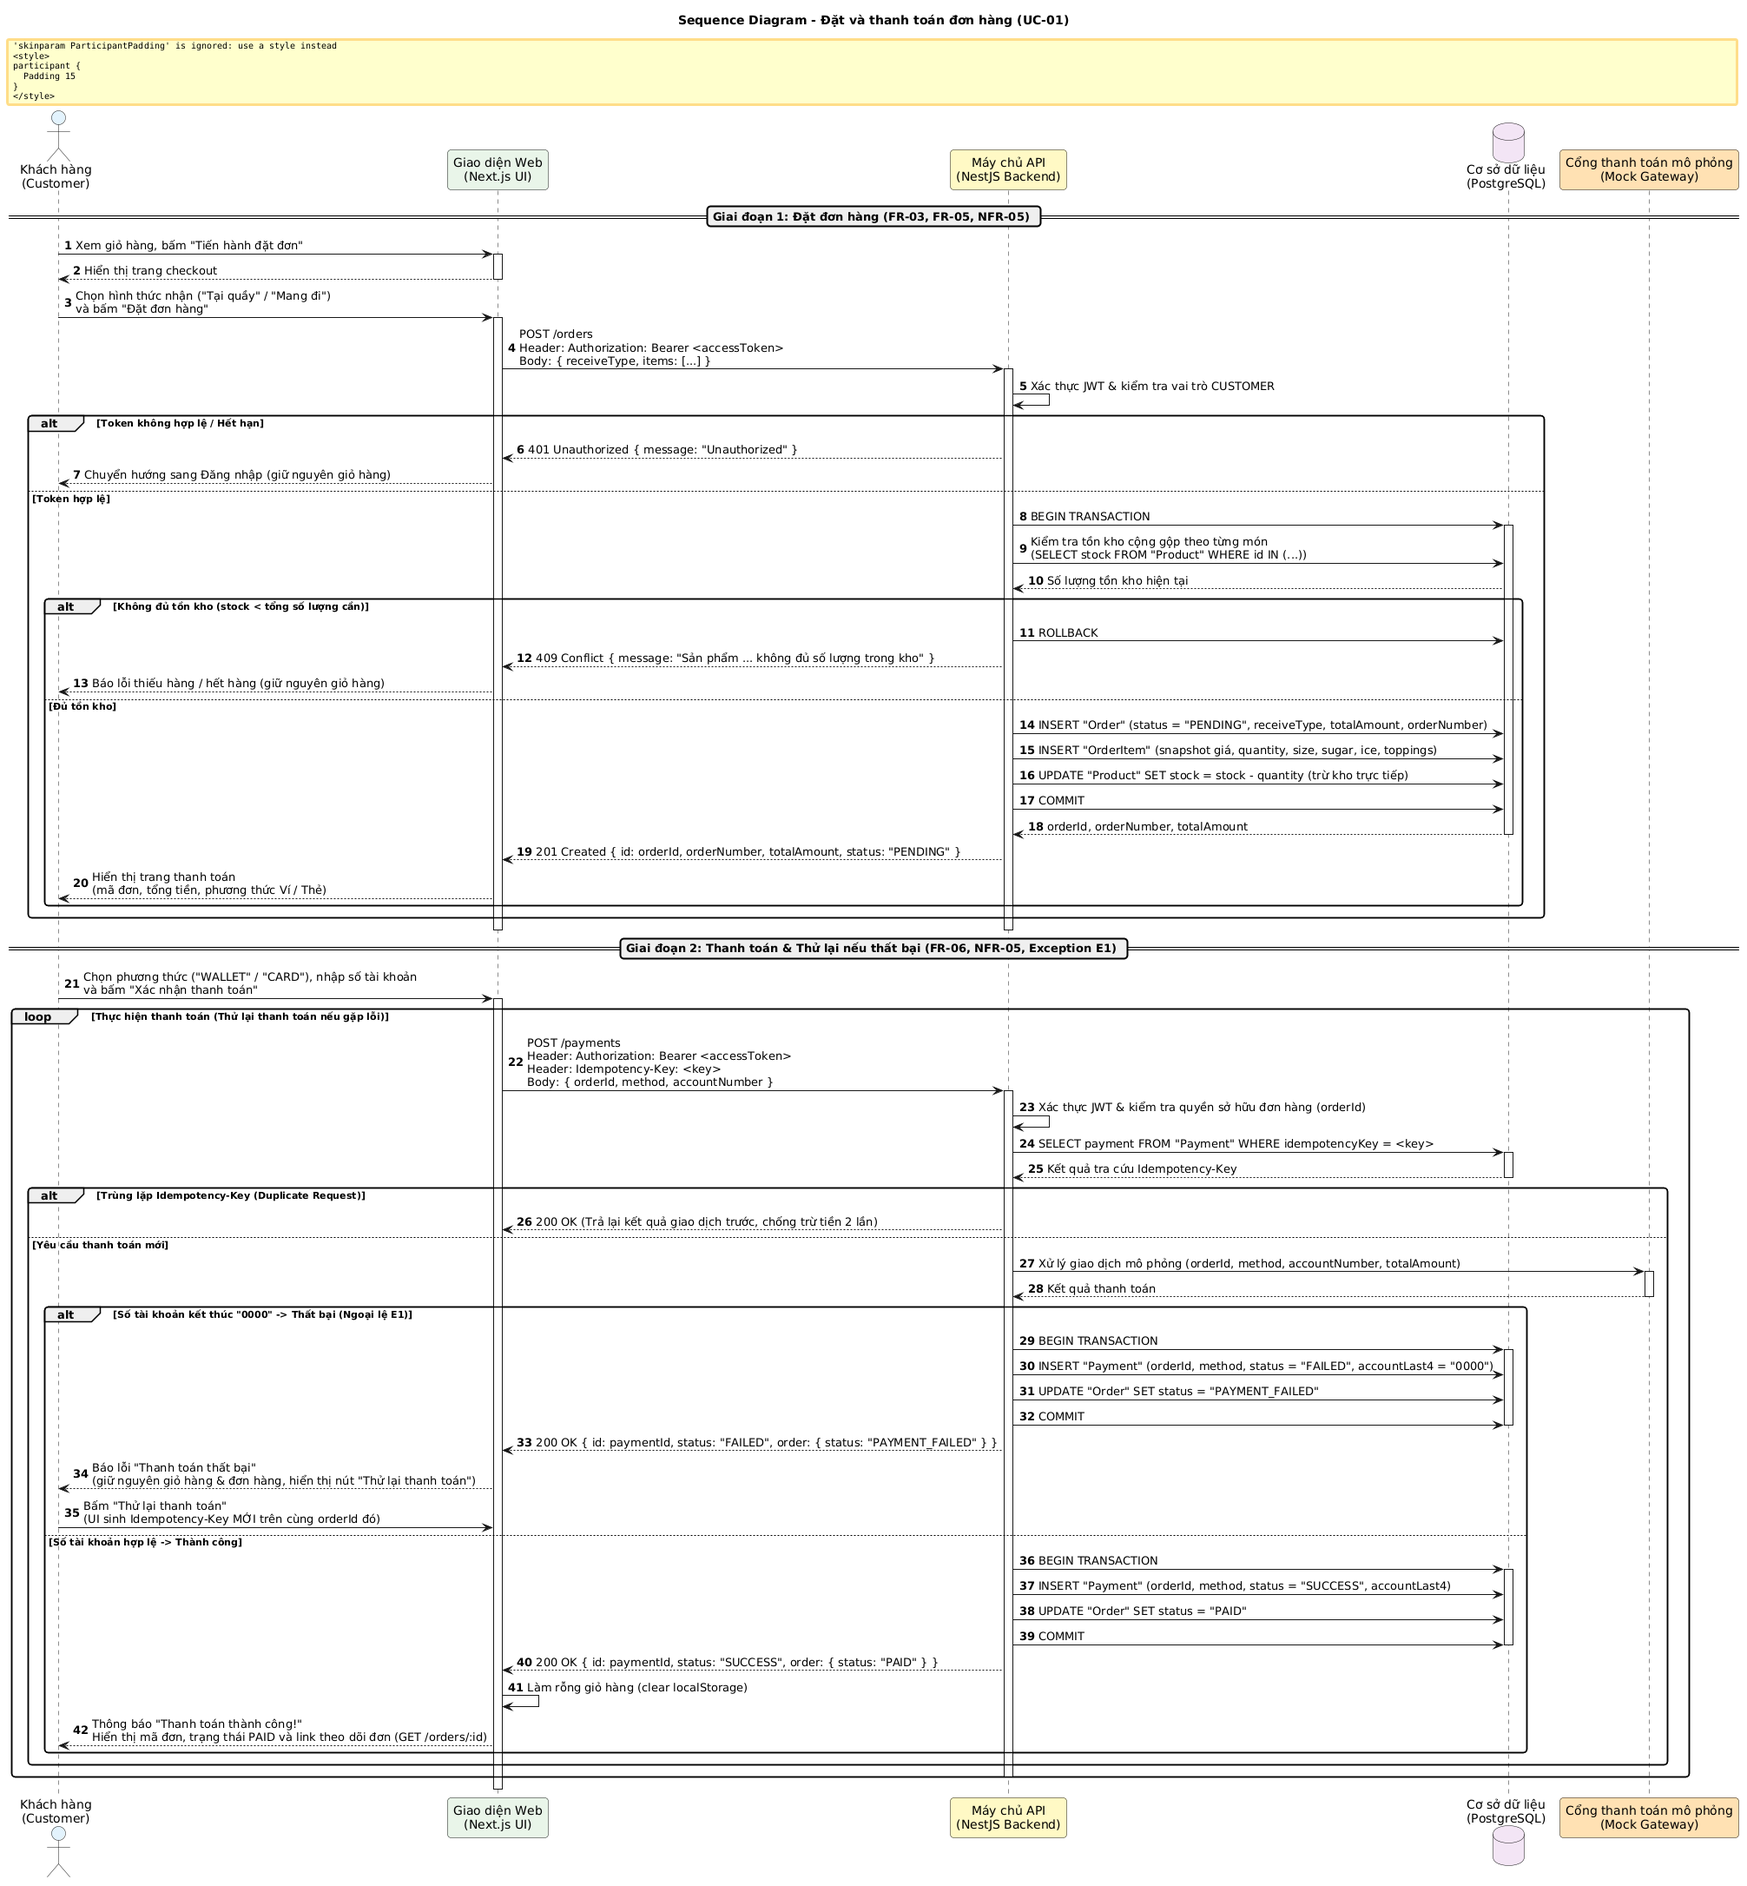
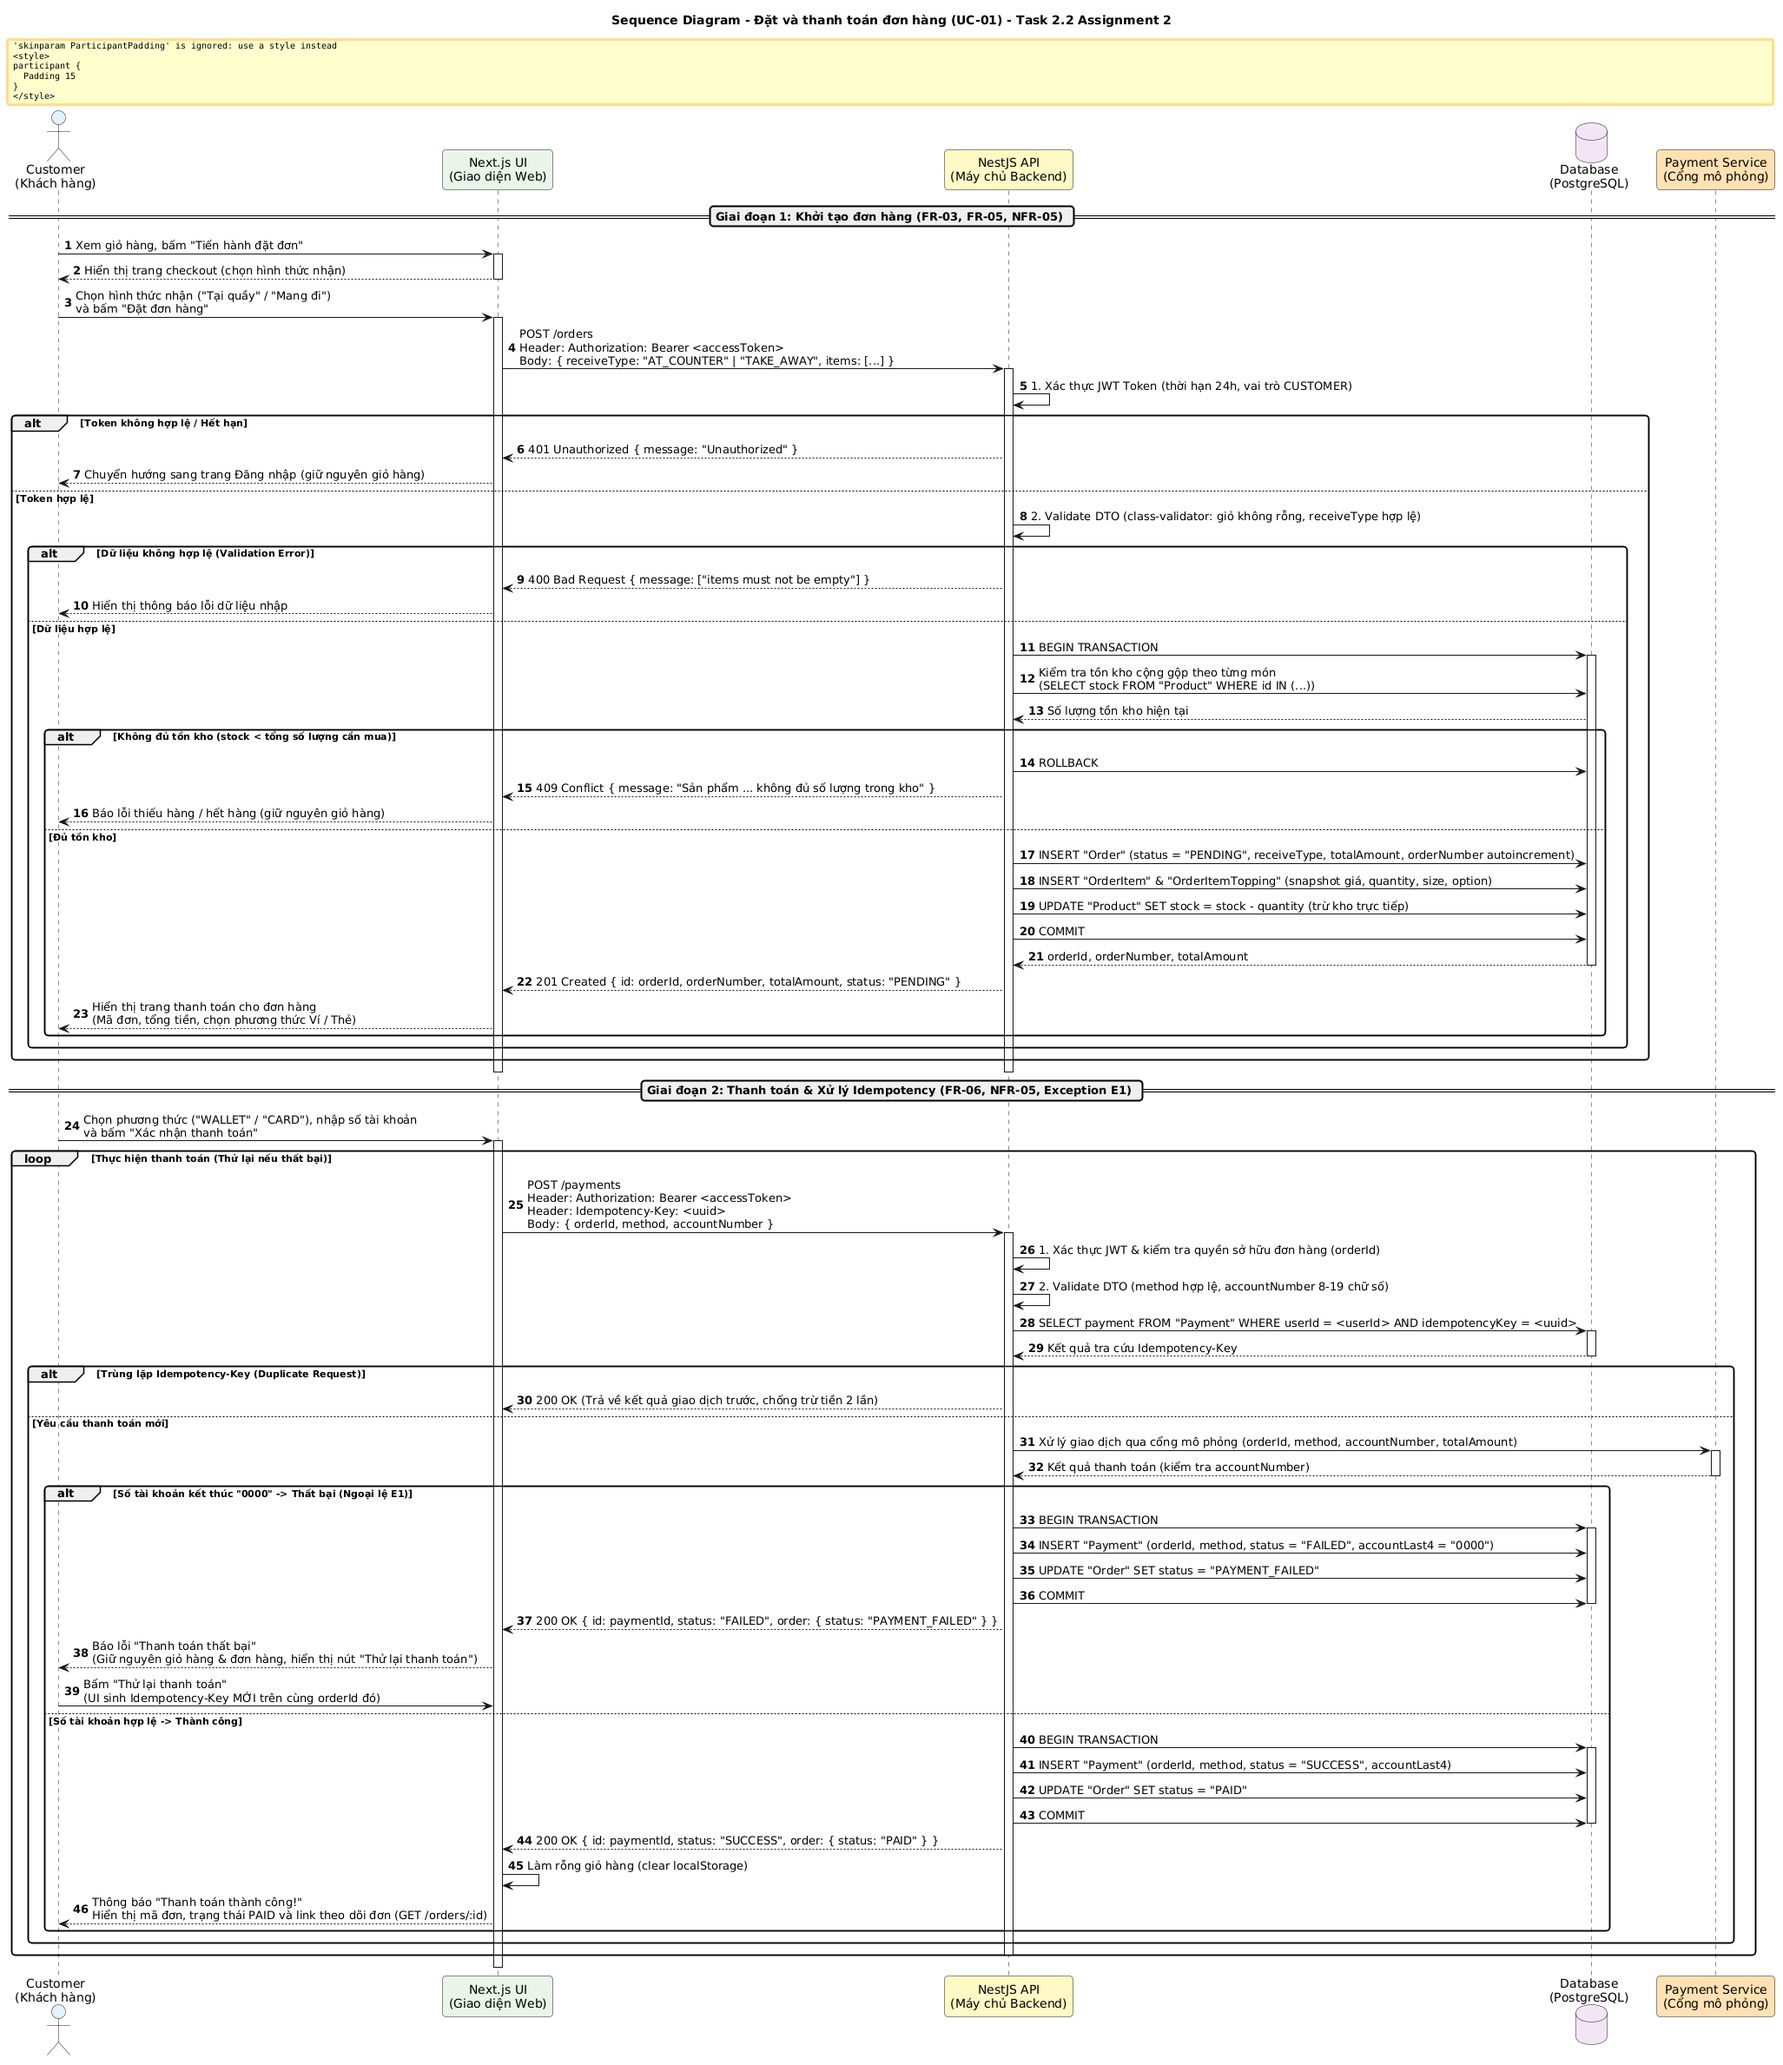
sửa sequence diagram

diff --git a/docs/diagrams/README.md b/docs/diagrams/README.md
@@ -9,7 +9,7 @@ Thư mục này lưu trữ đầy đủ cả **sơ đồ gốc ban đầu của 
 | Loại sơ đồ | Sơ đồ gốc ban đầu (Giữ nguyên) | Sơ đồ chuẩn hóa mới (Render từ PlantUML) | Ghi chú cập nhật |
 |---|---|---|---|
 | **Activity Diagram** (Task 2.1) | — | [`activity-diagram-ver2.drawio.png`](./activity-diagram-ver2.drawio.png) *(Draw.io mới)*<br>[`activity-diagram.png`](./activity-diagram.png)<br>[`activity-diagram.svg`](./activity-diagram.svg) *(Render từ PlantUML)* | Chuẩn hóa quy trình đặt hàng (UC-01), trừ kho, thanh toán mô phỏng (thất bại đuôi `0000`, thành công) và nhánh thử lại thanh toán theo Hợp đồng API mục 4 & 5. |
-| **Sequence Diagram** (Task 2.2) | — | [`sequencediagram.png`](./sequencediagram.png)<br>[`sequencediagram.svg`](./sequencediagram.svg) | Đồng bộ tuần tự giữa Khách hàng, UI Next.js, API NestJS, PostgreSQL và Mock Gateway theo UC-01 và Hợp đồng API (`POST /orders`, `POST /payments` kèm `Idempotency-Key`). |
+| **Sequence Diagram** (Task 2.2) | — | [`sequencediagram.png`](./sequencediagram.png)<br>[`sequencediagram.svg`](./sequencediagram.svg) | Đồng bộ tuần tự giữa Customer, Next.js UI, NestJS API, PostgreSQL và Payment Service theo đúng 5 lifeline bắt buộc của Task 2.2; kiểm tra JWT, validate DTO, transaction trừ kho và cơ chế Idempotency thanh toán. |
 | **Class Diagram** (Task 2.3) | — | [`classdiagram.png`](./classdiagram.png)<br>[`classdiagram.svg`](./classdiagram.svg) | Mô hình thực thể domain đáp ứng đầy đủ yêu cầu tối thiểu của Task 2.3 (gồm `User`, `Product`, `Topping`, `Order`, `OrderItem`, `OrderItemTopping`, `Payment`, `Promotion`, `LoyaltyTransaction`). Trong đó các lớp thực tế khớp 100% với `schema.prisma`, còn `Promotion` và `LoyaltyTransaction` được đánh dấu rõ là phạm vi mở rộng domain. |
 | **Deployment Diagram** (Task 3.2) | [`deployment-diagram-task-3.2.png`](../architecture/deployment-diagram-task-3.2.png) *(ở thư mục architecture)* | [`deployment-diagram.png`](./deployment-diagram.png)<br>[`deployment-diagram.svg`](./deployment-diagram.svg)<br>*(và bản sao tại `docs/architecture/`)* | Kiến trúc triển khai 3 dịch vụ độc lập trên Render: Web Next.js, API NestJS, PostgreSQL 16; giao tiếp trực tiếp qua HTTPS/CORS theo ADR-009. |
 
@@ -23,7 +23,7 @@ Thư mục này lưu trữ đầy đủ cả **sơ đồ gốc ban đầu của 
 |---|---|---|---|
 | **Activity Diagram** | — | [`activity-diagram.puml`](./activity-diagram.puml) | • **Luồng UC-01**: Đồng bộ hoàn toàn với Use-case đặc tả mới.<br>• **Kho**: Nhấn mạnh kiểm tra tồn kho cộng gộp theo món và transaction ACID.<br>• **Mã lỗi**: Bổ sung mã lỗi cụ thể `409 Conflict`.<br>• **Thanh toán**: Bổ sung quy tắc mô phỏng tài khoản đuôi `0000` thất bại, cơ chế bấm "Thử lại thanh toán" sinh `Idempotency-Key` mới mà không tạo lại đơn. |
 | **Class Diagram** | — | [`classdiagram.puml`](./classdiagram.puml) | • **Đạt chuẩn Task 2.3**: Đầy đủ tối thiểu 7 lớp theo đề bài (`User`, `Product`, `Order`, `OrderItem`, `Payment`, `Promotion`, `LoyaltyTransaction`) kèm multiplicity và enum trạng thái.<br>• **Khớp Schema 100%**: Chuẩn hóa toàn bộ các thực thể cốt lõi theo `schema.prisma` (Int tiền tệ, `displayName`, `accountLast4`, bảng trung gian `OrderItemTopping`).<br>• **Phạm vi mở rộng**: Ghi chú rõ `Promotion` và `LoyaltyTransaction` là mô hình domain phục vụ mở rộng, chưa hiện thực trong database MVP. |
-| **Sequence Diagram** | — | [`sequencediagram.puml`](./sequencediagram.puml) | • **Endpoint**: Chuẩn hóa gọi `POST /orders` và `POST /payments` khớp chính xác Hợp đồng API (thay vì endpoint cũ `POST /orders/:id/payments`).<br>• **Quy tắc hệ thống**: Bỏ hoàn toàn luồng hủy đơn tự động sau 15 phút (theo quyết định đã chốt mục 7).<br>• **Thanh toán mô phỏng**: Chuẩn hóa luồng ngoại lệ E1 (mô phỏng thất bại khi số tài khoản tận cùng `0000`), trả về `200 OK` với `status: FAILED` và vòng lặp thử lại thanh toán với `Idempotency-Key` mới trên cùng đơn hàng. |
+| **Sequence Diagram** | — | [`sequencediagram.puml`](./sequencediagram.puml) | • **Đạt chuẩn Task 2.2**: Đầy đủ 5 lifeline bắt buộc (`Customer` → `Next.js UI` → `NestJS API` → `Database` → `Payment Service`).<br>• **Kiểm tra JWT & Validate DTO**: Bổ sung rõ nét các bước xác thực JWT và validate DTO (trả về 401 hoặc 400 Bad Request).<br>• **Transaction trừ kho**: Transaction ACID kiểm tra tồn kho cộng gộp và trừ kho trực tiếp.<br>• **Idempotency & Alt nhánh**: Chống trừ tiền trùng lặp, xử lý thất bại đuôi `0000` và vòng lặp thử lại thanh toán với Idempotency-Key mới. |
 | **Deployment Diagram** | *(Ban đầu chỉ có ảnh AWS)* | [`deployment-diagram.puml`](./deployment-diagram.puml) | Mã nguồn PlantUML mô hình hóa kiến trúc triển khai thực tế trên Cloud Render (ADR-009). |
 
 ---
